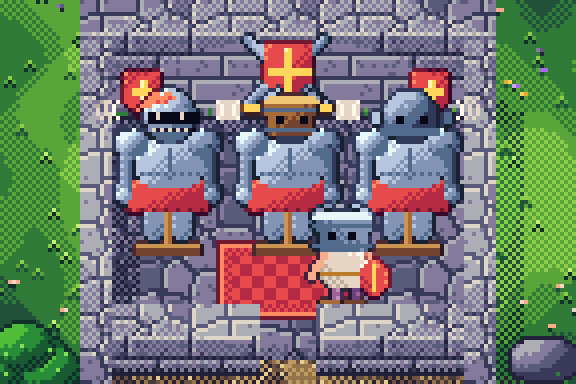
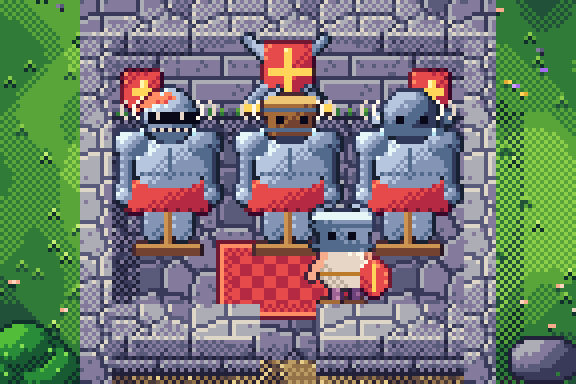
Zwischenstand: Pack 9 (BW-07..11, BF-02..07) fertig
Claude-Session: https://claude.ai/code/session_01JDx43Amq4CkeoPVSoFPfb3

diff --git a/BastionBlasters/art/pack_art8_props.py b/BastionBlasters/art/pack_art8_props.py
@@ -972,20 +972,16 @@ def armor_stand(head='helm', plume=True, lean=0, pose=0):
 
 
 def giggle_marks():
-    """Kicher-Zeichen: je drei Schüttel-Bögen links und rechts vom Helm plus Tränchen (34 x 14)"""
-    c = Canvas(36, 16)
-    for k in range(3):
+    """Kicher-Zeichen: je zwei Schüttel-Bögen links und rechts vom Helm plus Tränchen (26 x 16)"""
+    c = Canvas(26, 16)
+    for k in range(2):
         for (dy, dx) in ((0, 1), (1, 0), (2, 0), (3, 0), (4, 1)):
-            x = 4 - k * 2 + dx
-            y = 5 + dy - 0
-            if 0 <= x < 36:
-                c.put_ramp(x, y, 'bone', 5 if k == 0 else 4)
-            x2 = 31 + k * 2 - dx
-            c.put_ramp(x2, y, 'bone', 5 if k == 0 else 4)
-    c.put_ramp(9, 12, 'ice', 5)
-    c.put_ramp(9, 13, 'ice', 4)
-    c.put_ramp(26, 12, 'ice', 5)
-    c.put_ramp(26, 13, 'ice', 4)
+            c.put_ramp(4 - k * 3 + dx, 5 + dy, 'bone', 5 if k == 0 else 4)
+            c.put_ramp(21 + k * 3 - dx, 5 + dy, 'bone', 5 if k == 0 else 4)
+    c.put_ramp(6, 12, 'ice', 5)
+    c.put_ramp(6, 13, 'ice', 4)
+    c.put_ramp(19, 12, 'ice', 5)
+    c.put_ramp(19, 13, 'ice', 4)
     return c
 
 

diff --git a/BastionBlasters/art/pack_art8_scenes_b.py b/BastionBlasters/art/pack_art8_scenes_b.py
@@ -38,7 +38,7 @@ def _art_bw02():
     MX, MY, MW, MH = geom
     # Kicher-Striche neben den Helmen
     for cx in (MX + 18, MX + 48, MX + 78):
-        wdraw(world, giggle_marks(), cx - 18, MY - 6)
+        wdraw(world, giggle_marks(), cx - 13, MY - 6)
     # Knappe mit zu großem Eimerhelm
     _feet(world, squire_bucket(), MX + 62, MY + 50, flip=True)
     prop_at(world, bush(2), MX - 18, MY + 74)
